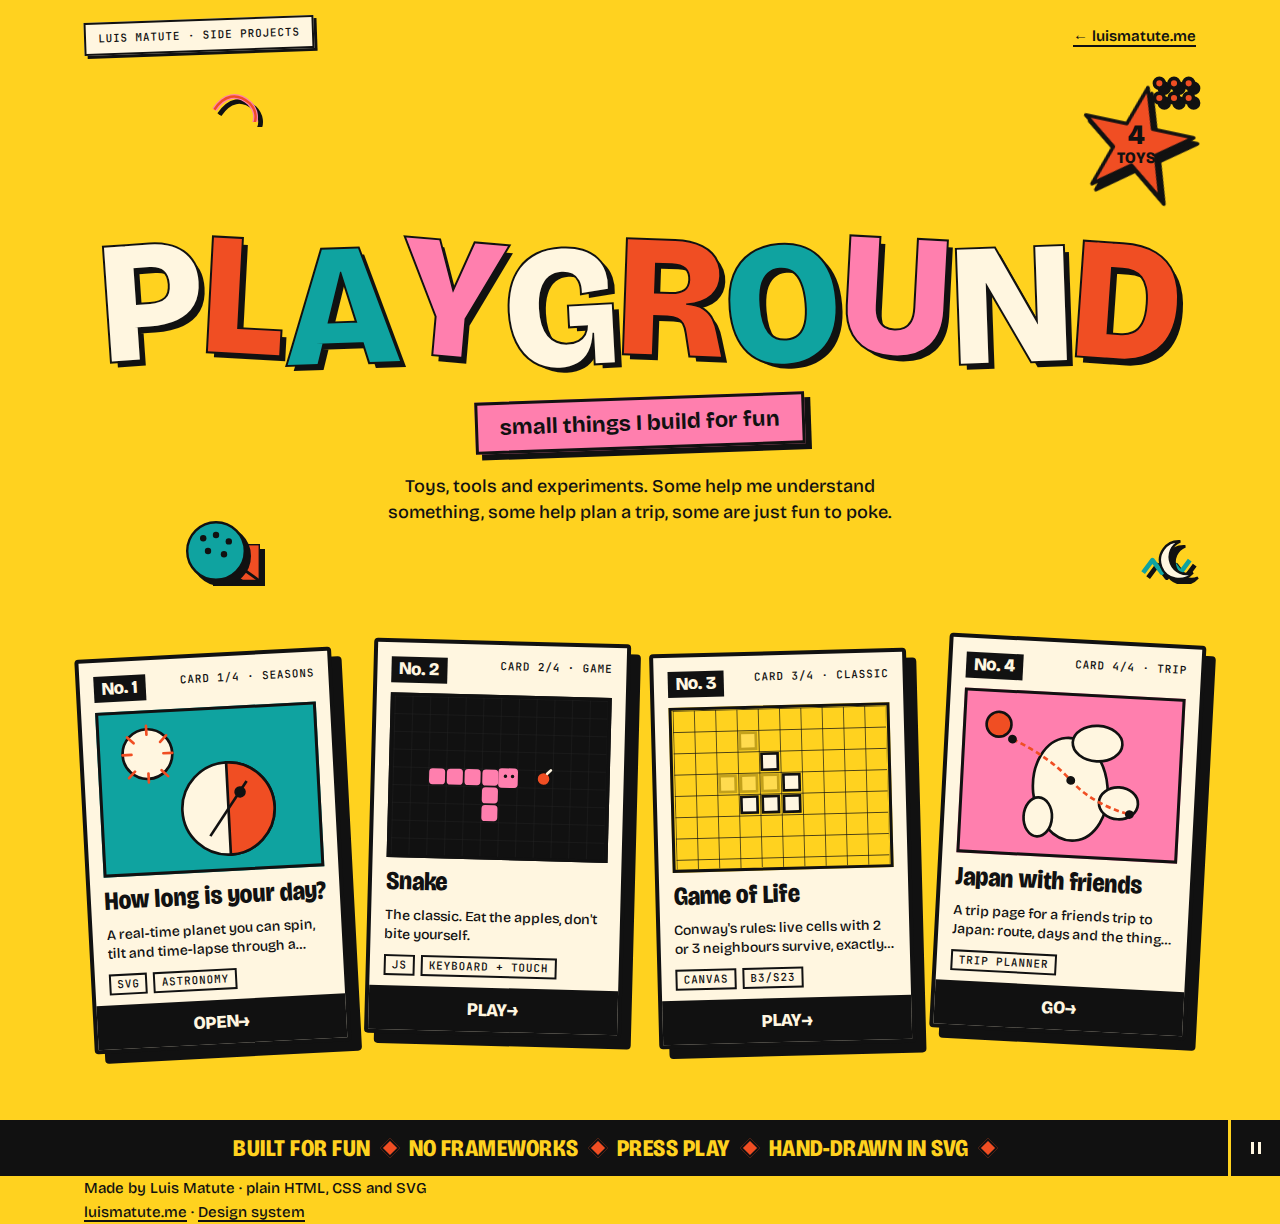
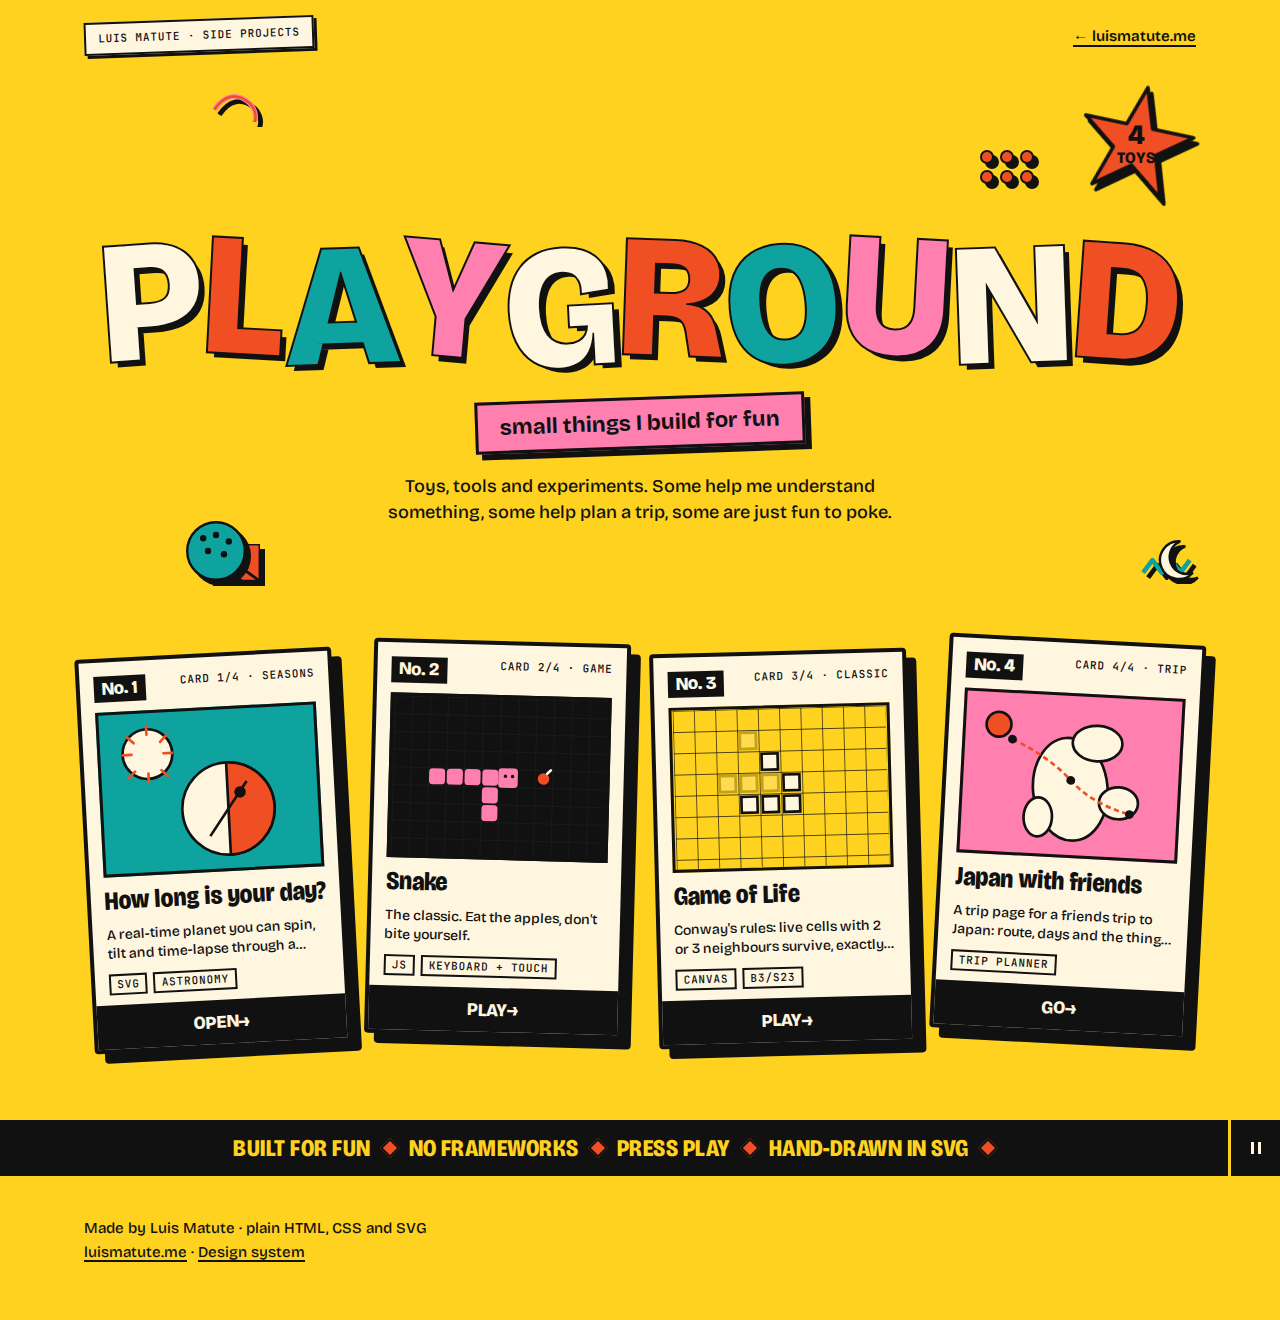
fix(playground): footer padding and dot sticker clearance
- footer.wrap restores 40px/56px vertical padding
- Reposition stk-dots above ND via syncDots; 20px pitch r6 dots
- capture: decor vs badge separation; 24px dots-badge margin

diff --git a/playground/index.html b/playground/index.html
@@ -73,7 +73,7 @@ body.ready .title span:nth-child(1){transform:rotate(-4deg) translateY(0)}body.r
 .stk-strip{left:max(56px,var(--gutter));bottom:8px;width:52px}
 .stk-polka{left:-38px;bottom:6px;width:64px}
 .stk-moon{right:-22px;bottom:10px;width:44px}
-@media(min-width:760px){.stk-sq,.stk-tri,.stk-strip{left:max(8px,calc(50% - 432px));right:auto}.stk-ring{left:max(-22px,calc(50% - 456px));top:auto;bottom:18px}.stk-plus{left:max(8px,calc(50% - 432px));top:auto;bottom:14px}.stk-polka{left:max(-42px,calc(50% - 456px));bottom:6px}.stk-dots{right:max(8px,var(--gutter));left:auto;top:4px}.stk-zig{right:max(8px,var(--gutter));left:auto;top:auto;bottom:14px}.stk-moon{right:max(-12px,var(--gutter));left:auto;bottom:10px}}
+@media(min-width:760px){.stk-sq,.stk-tri,.stk-strip{left:max(8px,calc(50% - 432px));right:auto}.stk-ring{left:max(-22px,calc(50% - 456px));top:auto;bottom:18px}.stk-plus{left:max(8px,calc(50% - 432px));top:auto;bottom:14px}.stk-polka{left:max(-42px,calc(50% - 456px));bottom:6px}.stk-dots{right:auto;top:0;width:60px}.stk-zig{right:max(8px,var(--gutter));left:auto;top:auto;bottom:14px}.stk-moon{right:max(-12px,var(--gutter));left:auto;bottom:10px}}
 @media(max-width:640px){.stk-plus,.stk-tri,.stk-strip,.stk-moon{display:none}.stk-sq{top:4px;left:20px;width:50px}.stk-dots{top:4px;right:20px;width:36px}.stk-ring{top:auto;bottom:16px;left:20px;width:40px}.stk-zig{bottom:16px;right:20px;top:auto;width:48px}.stk-polka{left:8px;top:auto;bottom:10px;width:48px;transform:scale(.6);transform-origin:bottom left}}
 @media(min-width:641px) and (max-width:900px){.stk-sq,.stk-dots{width:60px}}
 @media(min-width:1920px){.stk{transform:scale(1.15);transform-origin:center}}
@@ -132,6 +132,7 @@ body.ready .toy-card:nth-child(1){transition-delay:400ms}body.ready .toy-card:nt
 .marquee-row{justify-content:center;width:100%;flex-wrap:wrap;gap:12px}
 }
 footer{padding:40px 0 56px;font-size:15px;line-height:1.6}
+footer.wrap{padding-block:40px 56px}
 footer a{text-underline-offset:3px;text-decoration-thickness:2px}
 footer a:focus-visible{outline:4px solid var(--tomato);outline-offset:2px}
 .footer-back,.footer-sep-mobile{display:none}
@@ -154,7 +155,7 @@ body:not(.ready) .title span,body:not(.ready) .toy-card{opacity:1}
 <header class="hero wrap">
 <div class="stickers" aria-hidden="true">
 <svg class="stk stk-sq" viewBox="0 0 80 48" aria-hidden="true"><path d="M8 32c12-18 28-22 44-8 8 8 10 20 4 28" fill="none" stroke="#ff7fae" stroke-width="6"/><path d="M8 32c12-18 28-22 44-8 8 8 10 20 4 28" fill="none" stroke="#f04e23" stroke-width="3"/></svg>
-<svg class="stk stk-dots" viewBox="0 0 36 24" aria-hidden="true"><g fill="var(--tomato)" stroke="var(--ink)" stroke-width="3"><circle cx="6" cy="6" r="4"/><circle cx="18" cy="6" r="4"/><circle cx="30" cy="6" r="4"/><circle cx="6" cy="18" r="4"/><circle cx="18" cy="18" r="4"/><circle cx="30" cy="18" r="4"/></g></svg>
+<svg class="stk stk-dots" viewBox="0 0 60 40" aria-hidden="true"><g fill="var(--tomato)" stroke="var(--ink)" stroke-width="2"><circle cx="10" cy="10" r="6"/><circle cx="30" cy="10" r="6"/><circle cx="50" cy="10" r="6"/><circle cx="10" cy="30" r="6"/><circle cx="30" cy="30" r="6"/><circle cx="50" cy="30" r="6"/></g></svg>
 <svg class="stk stk-ring" viewBox="0 0 64 64" aria-hidden="true"><circle cx="32" cy="32" r="22" fill="var(--cream)" stroke="var(--ink)" stroke-width="3"/></svg>
 <svg class="stk stk-tri" viewBox="0 0 56 48" aria-hidden="true"><polygon points="28,4 52,44 4,44" fill="var(--teal)" stroke="var(--ink)" stroke-width="3" stroke-linejoin="round"/></svg>
 <svg class="stk stk-plus" viewBox="0 0 40 40" aria-hidden="true"><path d="M18 4h4v32h-4zM4 18h32v4H4z" fill="var(--cream)" stroke="var(--ink)" stroke-width="3"/></svg>
@@ -229,7 +230,9 @@ btn.addEventListener('click',function(){var p=mq.classList.toggle('is-paused');b
 var track=document.querySelector('.marquee-track');
 if(track&&!window.matchMedia('(prefers-reduced-motion: reduce)').matches){var half=track.scrollWidth/2;track.style.animationDuration=(half/40)+'s'}
 function titleWrap(){var t=document.querySelector('.title'),br=document.querySelector('.title-break');if(!t||!br)return;if(window.matchMedia('(min-width:900px)').matches){br.style.display='none';t.style.flexWrap='nowrap';return}br.style.display='none';t.style.flexWrap='nowrap';if(t.scrollWidth>t.clientWidth+2){br.style.display='block';t.style.flexWrap='wrap'}}
-titleWrap();window.addEventListener('resize',titleWrap);if(document.fonts&&document.fonts.ready)document.fonts.ready.then(titleWrap);
+function syncDots(){var dots=document.querySelector('.stk-dots'),hero=document.querySelector('.hero');if(!dots||!hero||window.matchMedia('(max-width:640px)').matches){dots.style.removeProperty('left');dots.style.removeProperty('top');return}var n=document.querySelector('.title span:nth-child(10)'),d=document.querySelector('.title span:nth-child(11)'),badge=document.querySelector('.badge-star--hero');if(!n||!d)return;function sep(a,b,g){return a.right+g<=b.left||a.left>=b.right+g||a.bottom+g<=b.top||a.top>=b.bottom+g}var hb=hero.getBoundingClientRect(),nr=n.getBoundingClientRect(),dr=d.getBoundingClientRect(),w=60,left=(nr.left+dr.right)/2-hb.left-w/2,top=Math.min(nr.top,dr.top)-hb.top-48;for(var i=0;i<24;i++){dots.style.left=left+'px';dots.style.top=Math.max(8,top)+'px';var db=dots.getBoundingClientRect(),ok=sep(db,nr,24)&&sep(db,dr,24);if(badge&&getComputedStyle(badge).display!=='none')ok=ok&&sep(db,badge.getBoundingClientRect(),24);if(ok)break;left-=6;top-=3}}
+function layoutHero(){titleWrap();syncDots()}
+layoutHero();window.addEventListener('resize',layoutHero);if(document.fonts&&document.fonts.ready)document.fonts.ready.then(layoutHero);
 })();
 </script>
 </body>
